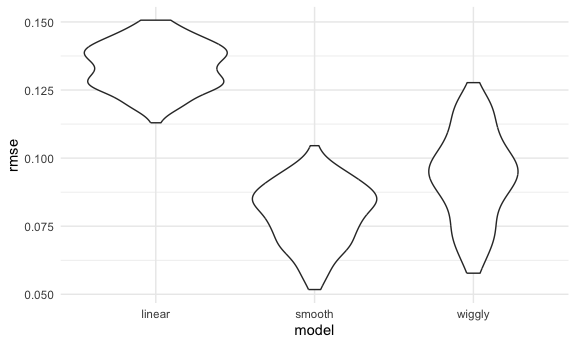
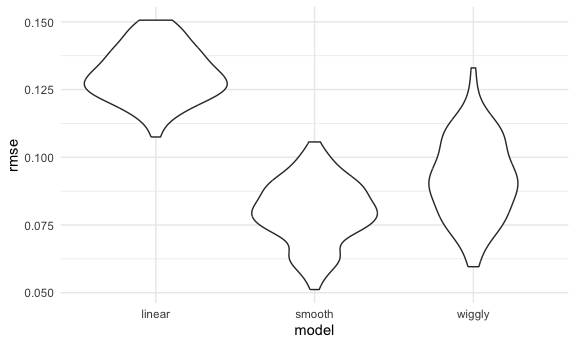
child growth CV example

diff --git a/cross_validation.md b/cross_validation.md
@@ -94,19 +94,19 @@ Try computing our RMSEs
 rmse(linear_mod, test_df)
 ```
 
-    ## [1] 0.1356458
+    ## [1] 0.1345185
 
 ``` r
 rmse(smooth_mod, test_df)
 ```
 
-    ## [1] 0.06451927
+    ## [1] 0.07944668
 
 ``` r
 rmse(wiggly_mod, test_df)
 ```
 
-    ## [1] 0.07168537
+    ## [1] 0.08502357
 
 ## ITERATE!!
 
@@ -135,9 +135,9 @@ cv_df |> pull(train) |> nth(3)
     ##  5   396  -0.0599     5
     ##  6   397  -0.0284     6
     ##  7   399  -0.0596     7
-    ##  8   402  -0.0294     9
-    ##  9   403  -0.0395    10
-    ## 10   405  -0.0476    11
+    ##  8   400  -0.0399     8
+    ##  9   402  -0.0294     9
+    ## 10   403  -0.0395    10
     ## # ℹ 166 more rows
 
 Let’s fit models over and over.
@@ -181,3 +181,99 @@ cv_df |>
 ```
 
 <img src="cross_validation_files/figure-gfm/unnamed-chunk-14-1.png" width="90%" />
+
+## Child growth
+
+``` r
+growth_df = 
+  read_csv("data/nepalese_children.csv")
+```
+
+    ## Rows: 2705 Columns: 5
+    ## ── Column specification ────────────────────────────────────────────────────────
+    ## Delimiter: ","
+    ## dbl (5): age, sex, weight, height, armc
+    ## 
+    ## ℹ Use `spec()` to retrieve the full column specification for this data.
+    ## ℹ Specify the column types or set `show_col_types = FALSE` to quiet this message.
+
+Weight v arm_c
+
+``` r
+growth_df |> 
+  ggplot(aes(x = weight, y = armc)) + 
+  geom_point(alpha = .5)
+```
+
+<img src="cross_validation_files/figure-gfm/unnamed-chunk-16-1.png" width="90%" />
+
+Let’s show the models we might use.
+
+``` r
+growth_df =
+  growth_df |> 
+  mutate(
+    weight_cp7 = (weight > 7) * (weight - 7)
+  )
+```
+
+Let’s fit three models
+
+``` r
+linear_mod = lm(armc ~ weight, data = growth_df)
+pwl_mod    = lm(armc ~ weight + weight_cp7, data = growth_df)
+smooth_mod = mgcv::gam(armc ~ s(weight), data = growth_df)
+```
+
+``` r
+growth_df |> 
+  add_predictions(smooth_mod) |> 
+  ggplot(aes(x = weight, y = armc)) +
+  geom_point(alpha = .5) + 
+  geom_line(aes(y = pred), color = "red")
+```
+
+<img src="cross_validation_files/figure-gfm/unnamed-chunk-19-1.png" width="90%" />
+
+Now cross validate!
+
+``` r
+cv_df = 
+  crossv_mc(growth_df, n = 100) |> 
+  mutate(
+    train = map(train, as_tibble),
+    test = map(test, as_tibble)
+  )
+```
+
+``` r
+cv_df = 
+  cv_df |> 
+  mutate(
+    linear_mod = map(train, \(df) lm(armc ~ weight, data = df)),
+    pwl_mod    = map(train, \(df) lm(armc ~ weight + weight_cp7, data = df)),
+    smooth_mod = map(train, \(df) mgcv::gam(armc ~ s(weight), data = df))
+  ) |> 
+  mutate(
+    rmse_linear = map2_dbl(linear_mod, test, rmse),
+    rmse_pwl    = map2_dbl(pwl_mod, test, rmse),
+    rmse_smooth = map2_dbl(smooth_mod, test, rmse)
+  )
+```
+
+Create my boxplots!
+
+``` r
+cv_df |> 
+  select(starts_with("rmse")) |> 
+  pivot_longer(
+    everything(),
+    names_to = "model",
+    values_to = "rmse",
+    names_prefix = "rmse_"
+  ) |> 
+  ggplot(aes(x = model, y = rmse)) + 
+  geom_violin()
+```
+
+<img src="cross_validation_files/figure-gfm/unnamed-chunk-22-1.png" width="90%" />
